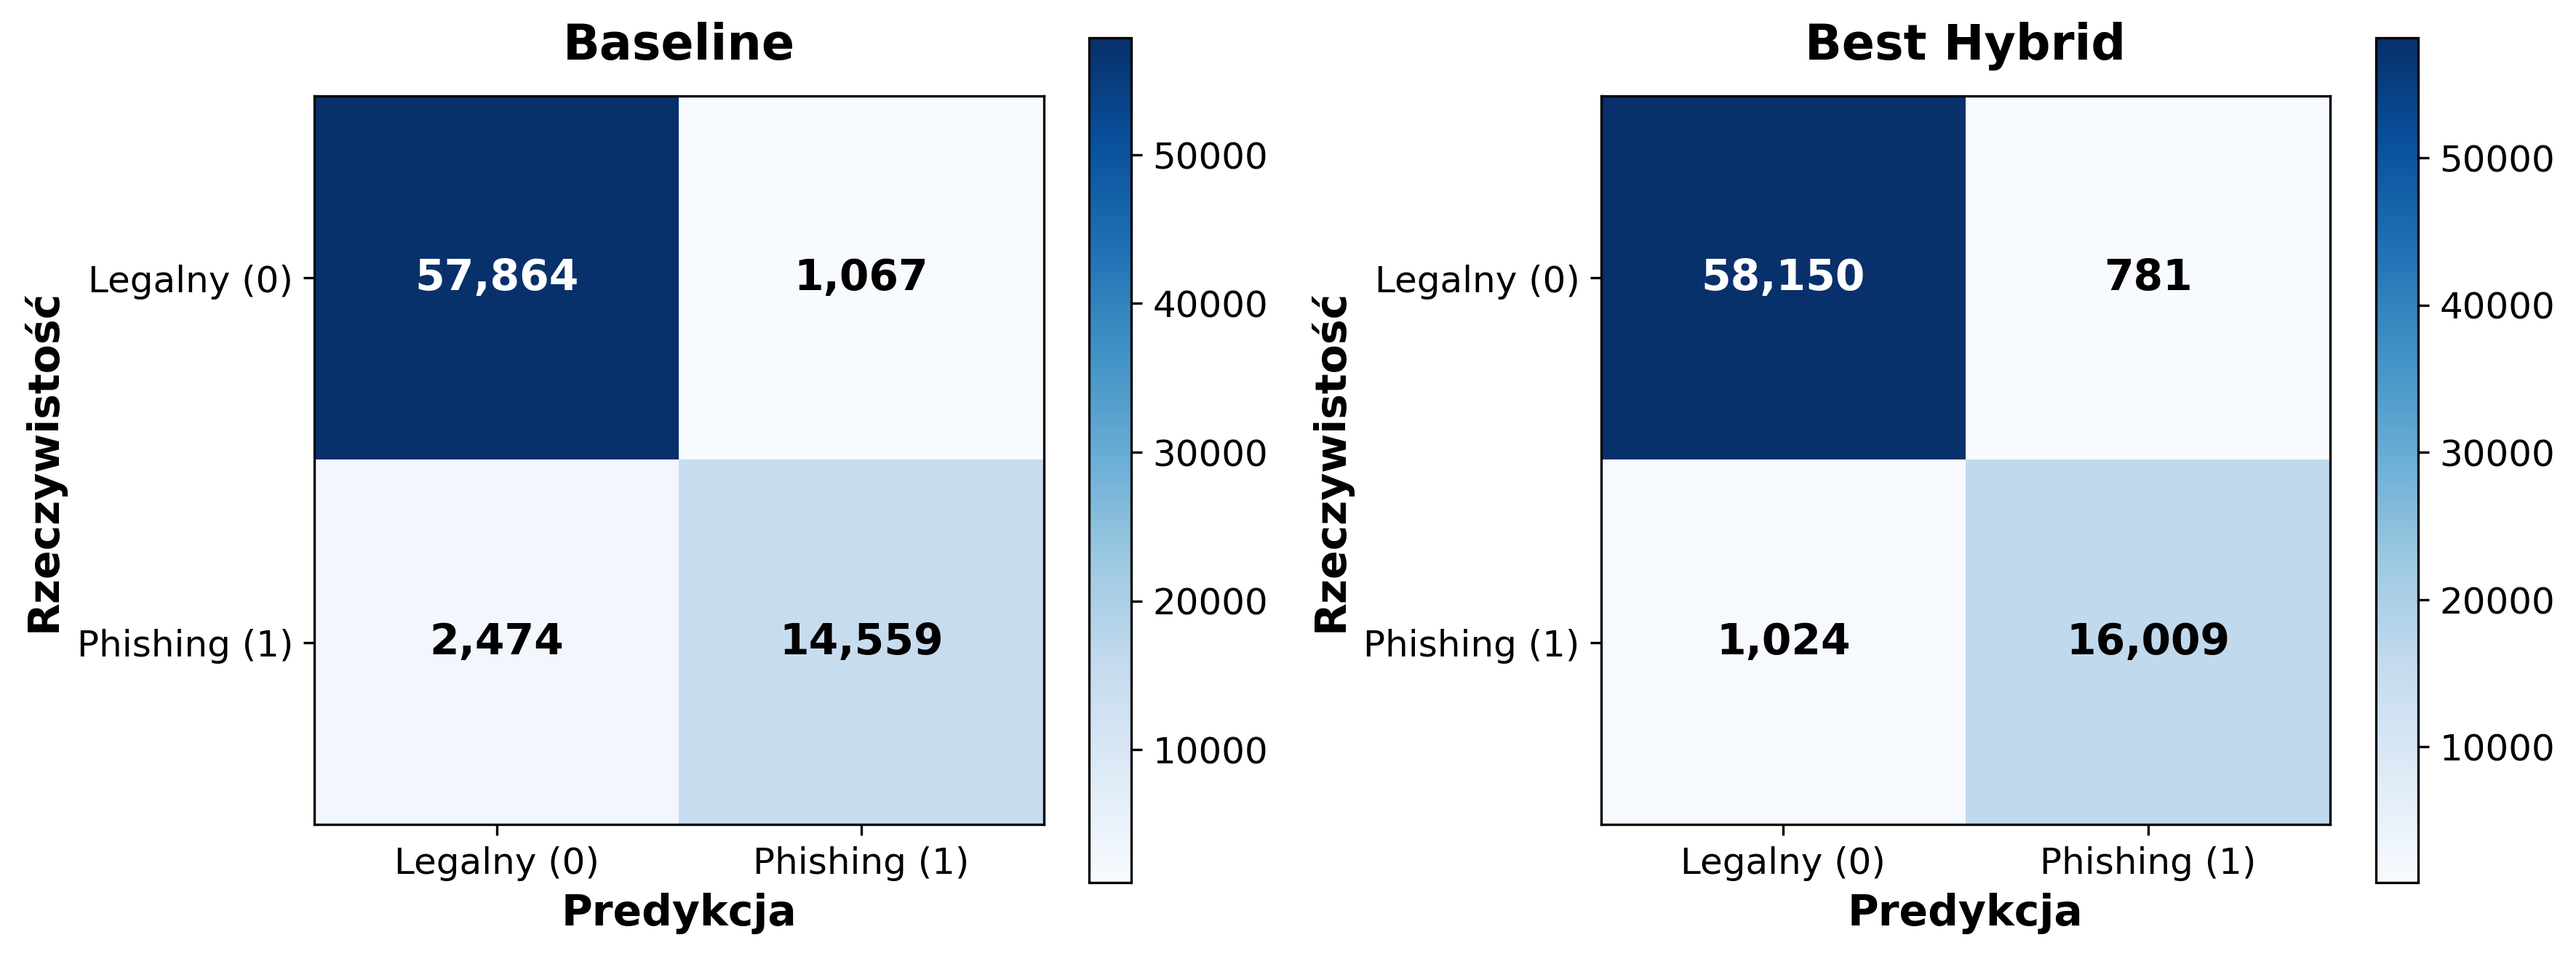
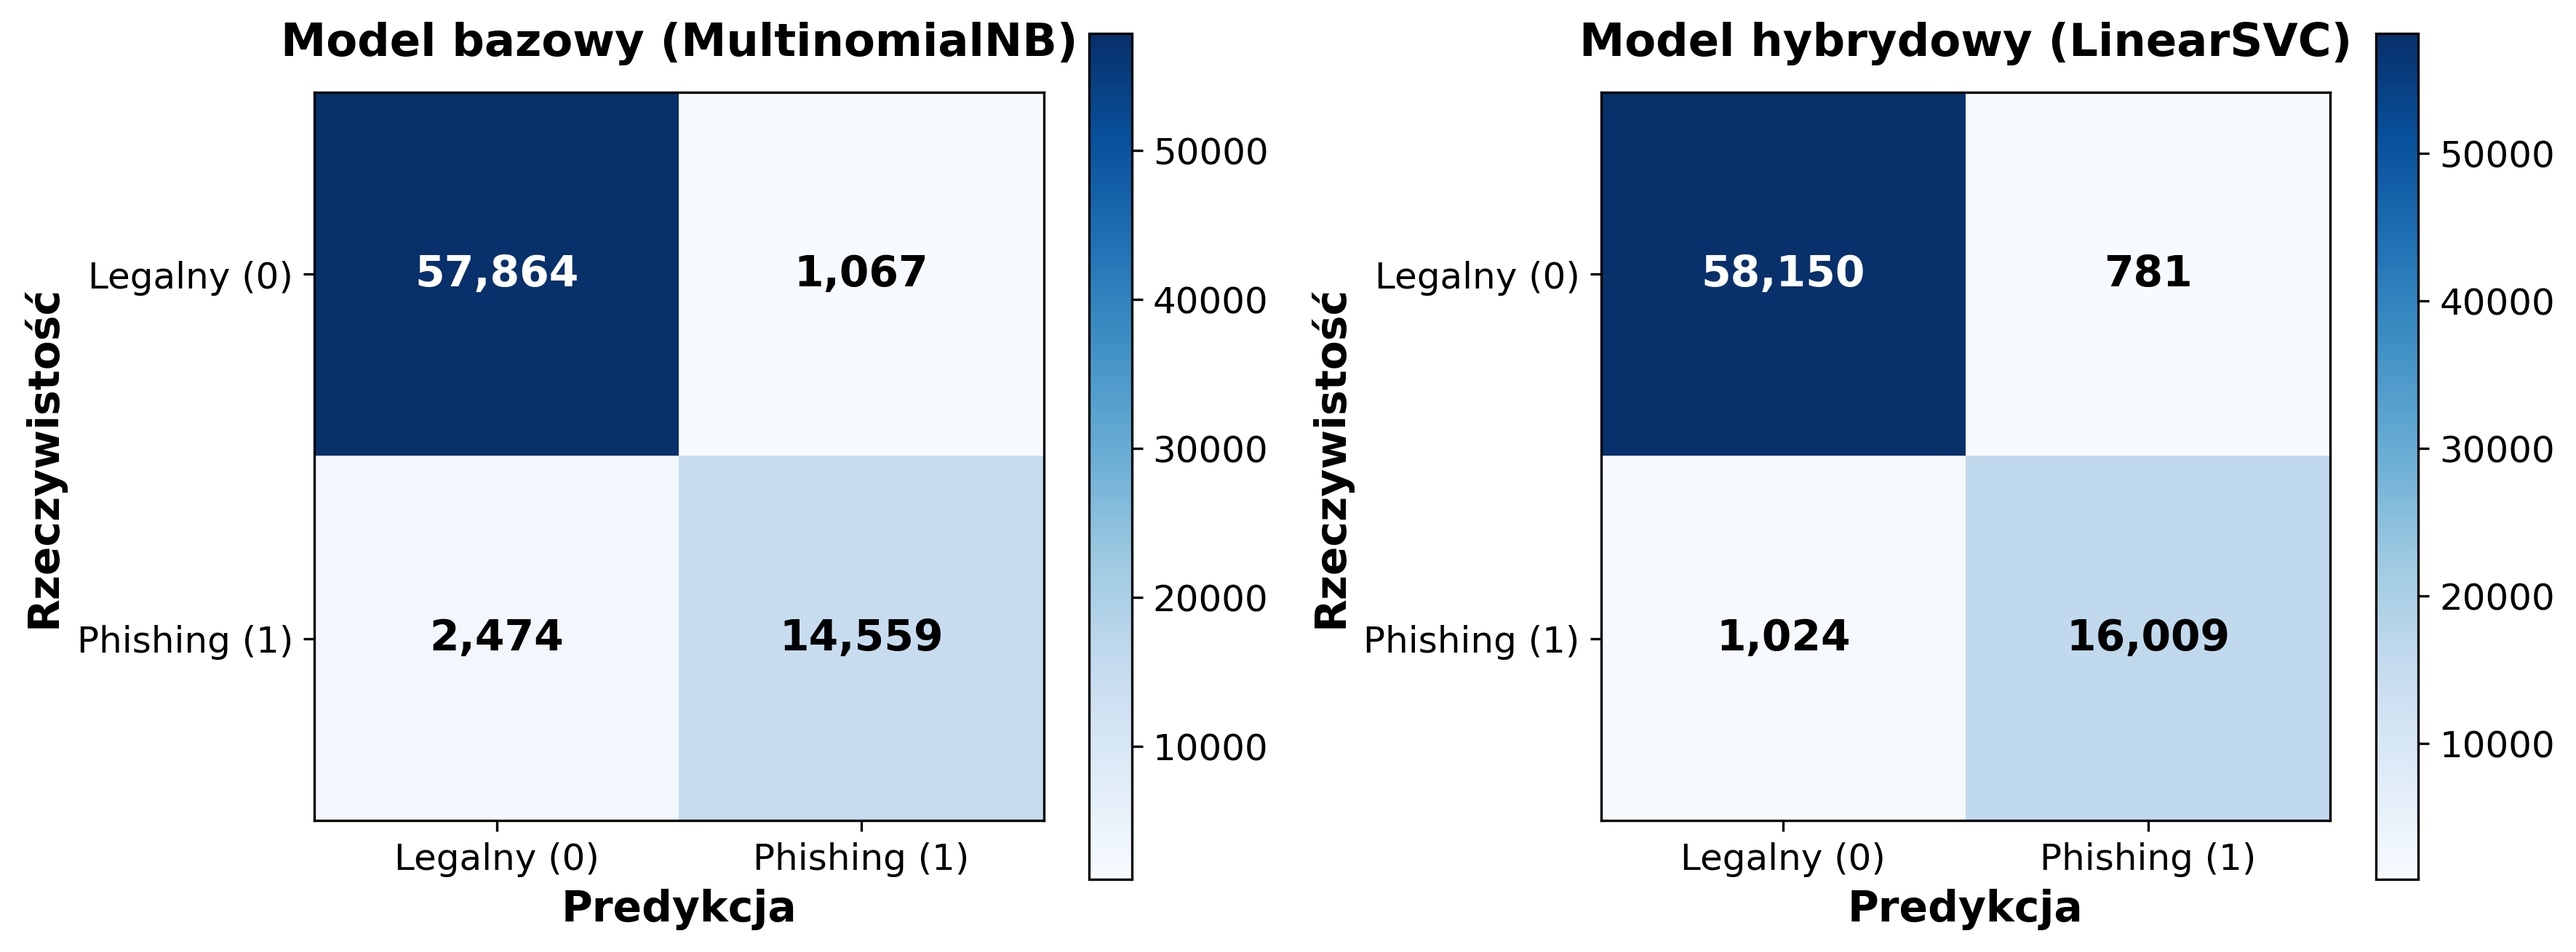
style(figures): translate plot labels and titles to Polish for IEEE report

diff --git a/src/final_eval.py b/src/final_eval.py
@@ -155,6 +155,10 @@ def _plot_confusion_matrices(
     predictions: dict[str, np.ndarray],
     path: Path,
 ) -> None:
+    pl_names = {
+        "Baseline": "Model bazowy (MultinomialNB)",
+        "Best Hybrid": "Model hybrydowy (LinearSVC)",
+    }
     fig, axes = plt.subplots(1, len(predictions), figsize=(12, 5.2))
     for axis, (name, predicted) in zip(np.atleast_1d(axes), predictions.items()):
         matrix = confusion_matrix(targets, predicted, labels=[0, 1])
@@ -166,7 +170,7 @@ def _plot_confusion_matrices(
             xticklabels=["Legalny (0)", "Phishing (1)"],
             yticklabels=["Legalny (0)", "Phishing (1)"],
         )
-        axis.set_title(name, fontsize=16, fontweight="bold", pad=12)
+        axis.set_title(pl_names.get(name, name), fontsize=15, fontweight="bold", pad=12)
         axis.set_xlabel("Predykcja", fontsize=14, fontweight="bold")
         axis.set_ylabel("Rzeczywistość", fontsize=14, fontweight="bold")
         thresh_color = matrix.max() / 2.0
@@ -195,18 +199,23 @@ def _plot_roc_curves(
     thresholds: dict[str, float],
     path: Path,
 ) -> None:
+    pl_names = {
+        "Baseline": "Model bazowy",
+        "Best Hybrid": "Model hybrydowy",
+    }
     fig, axis = plt.subplots(figsize=(8.2, 6.5))
     colors = {"Baseline": "#2b5c8f", "Best Hybrid": "#d95f02"}
     for name, values in scores.items():
         false_positive_rate, true_positive_rate, _ = roc_curve(targets, values)
         auc = roc_auc_score(targets, values)
         color = colors.get(name, None)
+        disp_name = pl_names.get(name, name)
         axis.plot(
             false_positive_rate,
             true_positive_rate,
             lw=3.0,
             color=color,
-            label=f"{name} (AUC = {auc:.4f})",
+            label=f"{disp_name} (AUC = {auc:.4f})",
         )
 
         threshold = thresholds[name]
@@ -222,14 +231,14 @@ def _plot_roc_curves(
             edgecolors="black",
             linewidths=1.3,
             zorder=5,
-            label=f"{name}, próg = {threshold:.4g} (FPR={fpr:.3f}, TPR={tpr:.3f})",
+            label=f"{disp_name}, próg = {threshold:.4g} (FPR={fpr:.3f}, Czułość={tpr:.3f})",
         )
 
     axis.plot([0, 1], [0, 1], linestyle="--", lw=2.0, color="gray", label="Losowy (AUC = 0.5000)")
     axis.set_xlim(0, 1)
     axis.set_ylim(0, 1.05)
-    axis.set_xlabel("False Positive Rate (FPR)", fontsize=14, fontweight="bold")
-    axis.set_ylabel("True Positive Rate (Recall / TPR)", fontsize=14, fontweight="bold")
+    axis.set_xlabel("Odsetek fałszywych alarmów (FPR)", fontsize=14, fontweight="bold")
+    axis.set_ylabel("Czułość (TPR)", fontsize=14, fontweight="bold")
     axis.set_title("Krzywe ROC — zbiór testowy", fontsize=16, fontweight="bold", pad=14)
     axis.grid(alpha=0.4, linewidth=1.0)
     axis.legend(loc="lower right", fontsize=11.5, frameon=True, framealpha=0.95)
@@ -246,8 +255,30 @@ def _plot_feature_importance(model: Any, path: Path) -> list[dict[str, float | s
         for index in top_indices
     ]
 
-    fig, axis = plt.subplots(figsize=(10.5, 7.5))
-    labels = [str(item["feature"]) for item in reversed(top_features)]
+    pl_feature_map = {
+        "lexical__url_length": "Cecha: Długość URL",
+        "lexical__host_length": "Cecha: Długość hosta",
+        "lexical__path_length": "Cecha: Długość ścieżki",
+        "lexical__num_dots": "Cecha: Liczba kropek",
+        "lexical__has_at": "Cecha: Obecność znaku @",
+        "lexical__shannon_entropy": "Cecha: Entropia Shannona",
+        "lexical__num_hyphens": "Cecha: Liczba myślników",
+        "lexical__digit_ratio": "Cecha: Udział cyfr",
+        "lexical__num_subdomains": "Cecha: Liczba subdomen",
+        "lexical__num_query_params": "Cecha: Parametry zapytania",
+        "lexical__has_ip": "Cecha: Adres IPv4 w hoście",
+        "lexical__num_percent_encoded": "Cecha: Kodowanie %xx",
+    }
+
+    def _format_feature_label(raw_name: str) -> str:
+        if raw_name in pl_feature_map:
+            return pl_feature_map[raw_name]
+        if raw_name.startswith("tfidf__"):
+            return f"n-gram: '{raw_name[len('tfidf__'):]}'"
+        return raw_name
+
+    fig, axis = plt.subplots(figsize=(10.8, 7.6))
+    labels = [_format_feature_label(str(item["feature"])) for item in reversed(top_features)]
     values = [float(item["importance"]) for item in reversed(top_features)]
     bars = axis.barh(labels, values, color="#1f77b4", edgecolor="black", linewidth=1.0)
     for bar, val in zip(bars, values):
@@ -260,9 +291,9 @@ def _plot_feature_importance(model: Any, path: Path) -> list[dict[str, float | s
             fontsize=11,
             fontweight="bold",
         )
-    axis.set_xlim(0, max(values) * 1.14)
-    axis.set_title("Top 15 ważnych cech — Best Hybrid", fontsize=16, fontweight="bold", pad=14)
-    axis.set_xlabel("Ważność (wartość bezwzględna wagi SVM)", fontsize=14, fontweight="bold")
+    axis.set_xlim(0, max(values) * 1.15)
+    axis.set_title("15 najważniejszych cech — Model hybrydowy (LinearSVC)", fontsize=15, fontweight="bold", pad=14)
+    axis.set_xlabel("Ważność cechy (wartość bezwzględna wagi SVM)", fontsize=14, fontweight="bold")
     axis.grid(axis="x", linestyle="--", alpha=0.4)
     fig.tight_layout()
     fig.savefig(path, dpi=300, bbox_inches="tight")

diff --git a/src/optimize_threshold.py b/src/optimize_threshold.py
@@ -210,12 +210,12 @@ def plot_threshold_tuning(
     fpr_vals = curve_df["fpr"].to_numpy()
 
     # Górny panel: F1, Recall, Precision vs Threshold
-    ax_top.plot(thresholds, f1_vals, label="F1-Score", color="#1f77b4", lw=2.8)
-    ax_top.plot(thresholds, recall_vals, label="Recall (TPR)", color="#2ca02c", lw=2.3, linestyle="--")
+    ax_top.plot(thresholds, f1_vals, label="Miara F1", color="#1f77b4", lw=2.8)
+    ax_top.plot(thresholds, recall_vals, label="Czułość (TPR)", color="#2ca02c", lw=2.3, linestyle="--")
     ax_top.plot(
         thresholds,
         precision_vals,
-        label="Precision",
+        label="Precyzja",
         color="#9467bd",
         lw=2.1,
         linestyle=":",
@@ -227,13 +227,14 @@ def plot_threshold_tuning(
         lw=2.2,
         label=(
             f"Optymalny próg τ* = {optimal_tau:.4f}\n"
-            f"(F1={optimal_metrics['f1']:.4f}, Recall={optimal_metrics['recall']:.4f})"
+            f"(F1={optimal_metrics['f1']:.4f}, Czułość={optimal_metrics['recall']:.4f})"
         ),
     )
     ax_top.scatter([optimal_tau], [optimal_metrics["f1"]], color="#d62728", s=95, edgecolors="black", zorder=5)
-    ax_top.set_ylabel("F1 / Recall / Precision", fontsize=13, fontweight="bold")
+    ax_top.set_ylabel("F1 / Czułość / Precyzja", fontsize=13, fontweight="bold")
+    pl_model_name = model_name.replace("Hybrid ", "Model hybrydowy ")
     ax_top.set_title(
-        f"Strojenie progu decyzyjnego (τ*) – {model_name}",
+        f"Strojenie progu decyzyjnego (τ*) – {pl_model_name}",
         fontsize=15,
         fontweight="bold",
         pad=12,
@@ -242,7 +243,7 @@ def plot_threshold_tuning(
     ax_top.grid(alpha=0.4, linewidth=1.0)
 
     # Dolny panel: FPR vs Threshold z zaznaczonym buforem FPR <= 0.018 i limitem DoD <= 0.020
-    ax_bottom.plot(thresholds, fpr_vals, label="False Positive Rate (FPR)", color="#ff7f0e", lw=2.6)
+    ax_bottom.plot(thresholds, fpr_vals, label="Odsetek fałszywych alarmów (FPR)", color="#ff7f0e", lw=2.6)
     ax_bottom.axhline(
         max_fpr_buffer,
         color="#d62728",
@@ -269,7 +270,7 @@ def plot_threshold_tuning(
     )
     ax_bottom.set_ylim(0.0, min(0.12, max(float(np.max(fpr_vals)) * 1.05, 0.03)))
     ax_bottom.set_xlabel("Próg decyzyjny (τ)", fontsize=13, fontweight="bold")
-    ax_bottom.set_ylabel("FPR", fontsize=13, fontweight="bold")
+    ax_bottom.set_ylabel("Fałszywe alarmy (FPR)", fontsize=13, fontweight="bold")
     ax_bottom.legend(loc="upper right", fontsize=11, frameon=True, framealpha=0.95)
     ax_bottom.grid(alpha=0.4, linewidth=1.0)
 

diff --git a/src/red_team.py b/src/red_team.py
@@ -571,7 +571,13 @@ def export_red_team_results(
     models = sorted(result["Model"].unique())
     x_positions = np.arange(len(ROUND_ORDER))
     bar_width = 0.76 / max(len(models), 1)
-    colors = {"Baseline": "#2b5c8f", "Hybrid": "#d95f02"}
+    colors = {"Baseline": "#2b5c8f", "Hybrid": "#d95f02", "baseline": "#2b5c8f", "hybrid": "#d95f02"}
+    pl_model_labels = {
+        "Baseline": "Model bazowy (MultinomialNB)",
+        "Hybrid": "Model hybrydowy (LinearSVC)",
+        "baseline": "Model bazowy",
+        "hybrid": "Model hybrydowy",
+    }
 
     for index, model_name in enumerate(models):
         model_rows = result[result["Model"] == model_name].set_index("Round").loc[ROUND_ORDER]
@@ -581,7 +587,7 @@ def export_red_team_results(
             offsets,
             deltas,
             width=bar_width,
-            label=model_name,
+            label=pl_model_labels.get(model_name, model_name),
             color=colors.get(model_name, None),
             edgecolor="black",
             linewidth=1.3,
@@ -599,9 +605,9 @@ def export_red_team_results(
             )
 
     ax.axhline(0.0, color="black", linewidth=1.4)
-    ax.set_title("Spadek Recall w rundach obfuskacji URL", fontsize=16, fontweight="bold", pad=14)
-    ax.set_xlabel("Runda", fontsize=14, fontweight="bold")
-    ax.set_ylabel("Δ Recall (p.p.)", fontsize=14, fontweight="bold")
+    ax.set_title("Zmiana czułości (Δ Czułość) w rundach zaciemniania składni URL", fontsize=16, fontweight="bold", pad=14)
+    ax.set_xlabel("Runda testów odpornościowych", fontsize=14, fontweight="bold")
+    ax.set_ylabel("Δ Czułość [p.p.] (+ spadek / - wzrost)", fontsize=14, fontweight="bold")
     ax.set_xticks(x_positions)
     ax.set_xticklabels(ROUND_ORDER, rotation=0, fontsize=12, fontweight="bold")
     min_delta = float(result["Delta_Recall_pp"].min()) if not result.empty else -10.0

diff --git a/src/evaluate.py b/src/evaluate.py
@@ -244,13 +244,13 @@ def plot_roc_curve(
             edgecolors="black",
             linewidths=1.2,
             zorder=5,
-            label=f"Próg {threshold:.2f} (FPR={thresh_fpr:.3f}, Recall={thresh_tpr:.3f})",
+            label=f"Próg {threshold:.2f} (FPR={thresh_fpr:.3f}, Czułość={thresh_tpr:.3f})",
         )
 
     ax.set_xlim([0.0, 1.0])
     ax.set_ylim([0.0, 1.05])
-    ax.set_xlabel("False Positive Rate (FPR)", fontsize=14, fontweight="bold")
-    ax.set_ylabel("True Positive Rate (Recall / TPR)", fontsize=14, fontweight="bold")
+    ax.set_xlabel("Odsetek fałszywych alarmów (FPR)", fontsize=14, fontweight="bold")
+    ax.set_ylabel("Czułość (TPR)", fontsize=14, fontweight="bold")
     ax.set_title(f"Krzywa ROC – {model_name}", fontsize=16, fontweight="bold", pad=14)
     ax.legend(loc="lower right", fontsize=12, frameon=True, framealpha=0.95)
     ax.grid(alpha=0.4, linewidth=1.0)
